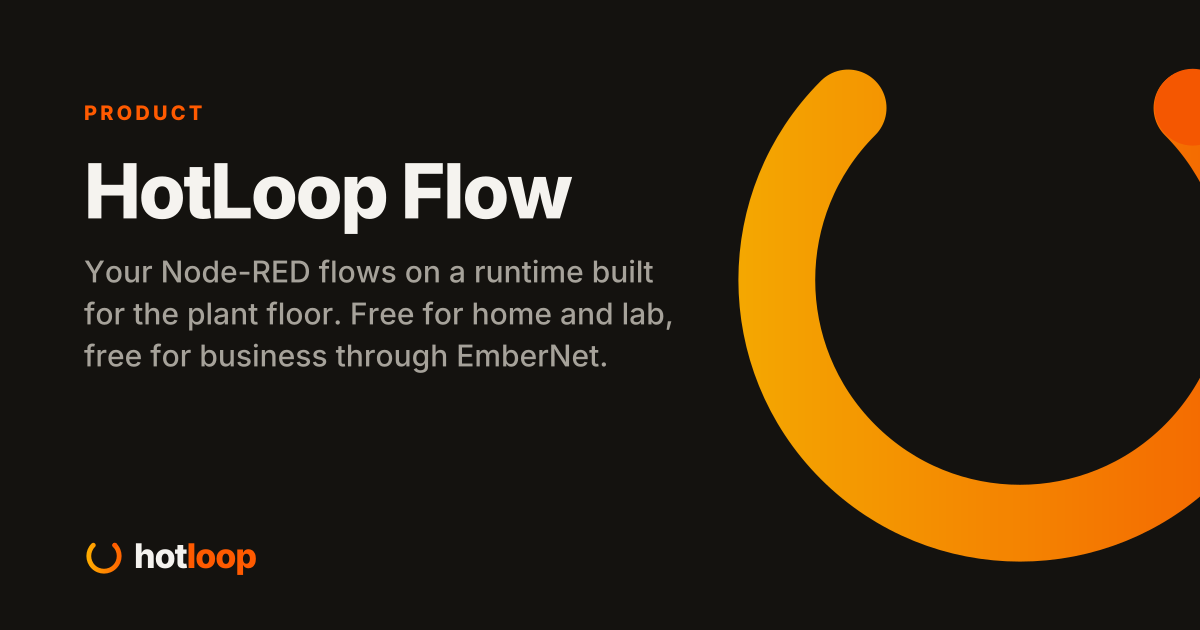
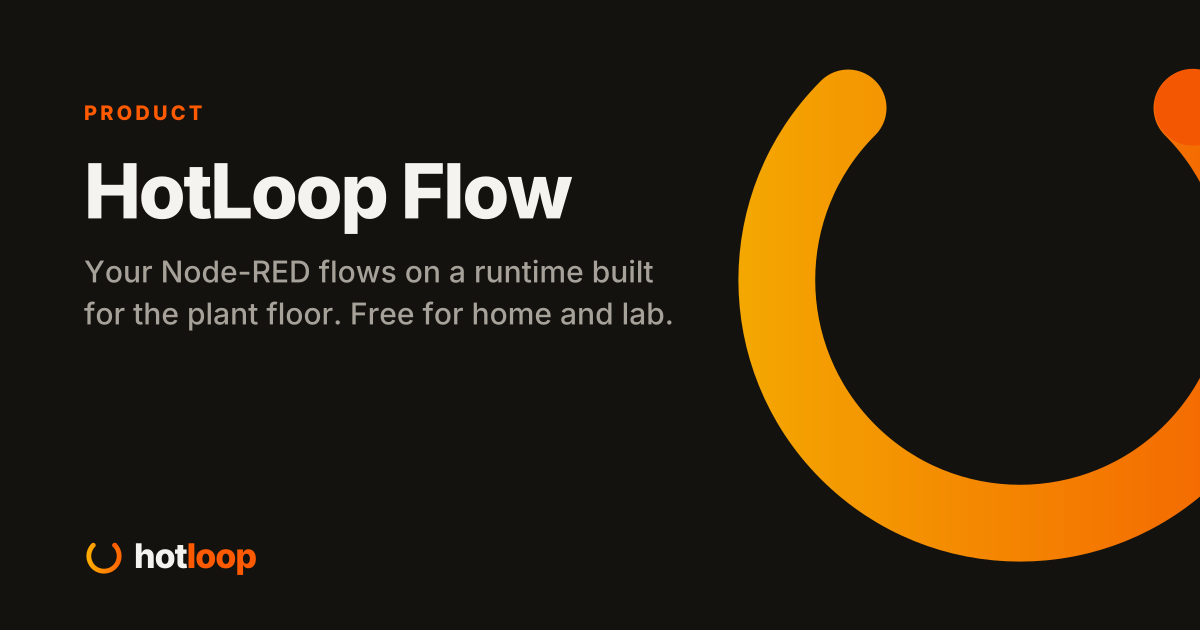
fix(copy): hotloop.io speaks as HotLoop LLC
I moved hotloop.io off Fireball Industries. HotLoop LLC is the maker, licensor and copyright holder, the License page is a short customer page that links the full agreement, and contact is support@hotloop.io. The vendored license and terms match the HotLoop-io main files.

Changed region(s): [[0.0617, 0.5429, 0.4933, 0.6032]]

diff --git a/src/legal/TERMS.md b/src/legal/TERMS.md
@@ -1,6 +1,6 @@
 # HotLoop Terms of Service
 
-HotLoop IoT, Edge, Gateway, Edge Relay, Flow, Cascade, HotLoop for CODESYS, and Transmitter. Fireball Industries LLC.
+HotLoop IoT, Edge, Gateway, Edge Relay, Flow, Cascade, HotLoop for CODESYS, and Transmitter. HotLoop LLC.
 
 Last updated: November 19, 2026. Effective: October 19, 2026.
 
@@ -8,7 +8,7 @@ These terms apply to everyone who downloads, installs or uses HotLoop. They expl
 
 ## 1. Who we are
 
-1.1 HotLoop is made by Fireball Industries LLC, an Ohio limited liability company at 1410 Highland Rd #1, Macedonia, OH 44056 ("HotLoop", "we", "us"). Fireball Industries LLC is the only party you contract with.
+1.1 HotLoop is made by HotLoop LLC ("HotLoop", "we", "us"). HotLoop LLC is the only party you contract with.
 
 1.2 "You" means the person or organization that accepts these terms.
 
@@ -90,13 +90,13 @@ These terms apply to everyone who downloads, installs or uses HotLoop. They expl
 
 ## 9. EmberNet
 
-9.1 EmberNet is the channel business use goes through. It is a separate service with its own terms. Your agreement with EmberNet is between you and EmberNet, and we are not a party to it.
+9.1 EmberNet is a partner platform and the channel business use goes through. It is a separate service with its own terms. Your agreement with EmberNet is between you and EmberNet, and we are not a party to it.
 
 9.2 We do not warrant EmberNet and are not responsible for it.
 
 ## 10. Support
 
-10.1 Community support is on GitHub Discussions, at our discretion and without any promise of response time. For anything else, write to support@hotloop.io.
+10.1 Community support is on GitHub Discussions, at our discretion and without any promise of response time. Support is provided by EmberNet, HotLoop's Gold Licensee: write to helpdesk@fireballz.ai.
 
 10.2 Paid support, service levels and rollouts, if you want them, come from a systems integrator you hire, not from these terms.
 
@@ -116,7 +116,7 @@ These terms apply to everyone who downloads, installs or uses HotLoop. They expl
 
 13.1 If you believe content on one of the Sites infringes your copyright, send a notice to our designated agent. Include: your contact details; the work you say is infringed; where the material is; a statement that you believe in good faith the use is not authorized; a statement that your notice is accurate and, under penalty of perjury, that you are the owner or authorized to act for the owner; and your signature.
 
-13.2 Designated agent: Copyright Agent, Fireball Industries LLC, 1410 Highland Rd #1, Macedonia, OH 44056, support@hotloop.io.
+13.2 Designated agent: Copyright Agent, HotLoop LLC, helpdesk@fireballz.ai.
 
 13.3 We may remove or disable access to the material and tell the user who posted it. That user may send a counter-notice to the same agent. We may close the accounts of repeat infringers.
 
@@ -158,13 +158,13 @@ These terms apply to everyone who downloads, installs or uses HotLoop. They expl
 
 ## 19. Which document wins
 
-19.1 For what you may do with the Software, the license wins over these terms. For everything else, these terms win over our other published pages. A signed agreement with Fireball Industries LLC wins over both where it says so.
+19.1 For what you may do with the Software, the license wins over these terms. For everything else, these terms win over our other published pages. A signed agreement with HotLoop LLC wins over both where it says so.
 
 ## 20. General
 
 20.1 You may not transfer these terms without our written consent. We may transfer them as part of a merger, reorganization or sale of our business.
 
-20.2 We give notice on the Sites. Send notices to us at Fireball Industries LLC, 1410 Highland Rd #1, Macedonia, OH 44056, support@hotloop.io.
+20.2 We give notice on the Sites. Send notices to us at helpdesk@fireballz.ai.
 
 20.3 Neither of us is liable for delay caused by events beyond reasonable control.
 

diff --git a/src/content/releases/flow/2.2.0.md b/src/content/releases/flow/2.2.0.md
@@ -5,7 +5,7 @@ date: 2026-10-20
 published: true
 summary: "Flow talks to the PLCs, remembers what it knew when it restarts, and shows you where a message went. It is also the first release under HotLoop's Business Source License."
 highlights:
-  - "The license changed. 2.2.0 and every release after it is under HotLoop's Business Source License 1.1. Home and lab use is free, and so are schools, nonprofits and government bodies. Business use is free through EmberNet, which is the only business path. 2.1.0 and everything before it stay under the license they shipped with."
+  - "The license changed. 2.2.0 and every release after it is under HotLoop's Business Source License 1.1. Home and lab use is free, and so are schools, nonprofits and government bodies. 2.1.0 and everything before it stay under the license they shipped with."
   - "Tracing and replay. Every message gets a bounded trace, and clicking a debug message lights the path it took with timing and the payload at each hop. A trace becomes a flow test, or replays into a draft so you can try a fix on the message that broke it. Hops can go to an OpenTelemetry collector as spans, proven against the real collector image."
   - "State that survives a restart. Flow, global and node context live in a SQLite file on the data volume. Mark a wire durable and it spills to disk, in order, only when the node behind it stops taking messages. A real InfluxDB killed for ten minutes, with the runtime killed mid-outage and mid-drain, came back with none missing and none doubled."
   - "Plant nodes. Modbus TCP read and write, OPC UA read, write and subscribe, S7 read and write, EtherNet/IP read and write, and Sparkplug B as an edge node and as a host. S7 and EtherNet/IP have only met simulators."

diff --git a/src/content/releases/core/4.18.10.md b/src/content/releases/core/4.18.10.md
@@ -13,7 +13,7 @@ highlights:
   - "Every box follows :stable and updates itself, and a release that can't start is rolled back. Migrations only add, and an app refuses to start on a schema two releases ahead of it, so that rollback is always safe."
   - "UniFi on a wall board and a phone: a zooming network map, traces for WAN latency and port traffic, one button that makes the usual alarms, and UniFi events in the logbook under the switch they are about. An agent can ask over MCP for the topology and the console's latest events."
   - "The Edge Relay takes a pushed config live with no restart and no lost Sparkplug session, and discovers devices on a broker like the Gateway does."
-  - "The license changed: all four products are under the HotLoop Business Source License 1.1. Home and lab use is free, so is use by schools, nonprofits and government, and business use goes through EmberNet."
+  - "The license changed: all four products are under the HotLoop Business Source License 1.1. Home and lab use is free, and so is use by schools, nonprofits and government."
   - "Fixed on the way: a discovered device's value could be overwritten by its own placeholder reading that had no value yet, the embedded MQTT broker mishandled packet ids in both directions, and a dashboard that was still loading could put a person back on the one they had just left."
 breaking:
   - "Upgrade from 4.17.0 with --reset-then-reuse-values or your values file. Plain --reuse-values renders, but it replays 4.17.0's values and drops every new default."

diff --git a/src/legal/LICENSE.md b/src/legal/LICENSE.md
@@ -2,9 +2,9 @@
 
 Every HotLoop product is under the HotLoop Source License Agreement 1.0 below: HotLoop IoT, HotLoop Edge, HotLoop Gateway, HotLoop Edge Relay, HotLoop Flow, HotLoop Cascade, HotLoop for CODESYS, HotLoop Transmitter, Spark SDK and Spark Manager. A version that was released under an earlier license stays under that license.
 
-**Licensor:** Fireball Industries LLC
+**Licensor:** HotLoop LLC
 
-**Licensed Work:** HotLoop IoT, HotLoop Edge, HotLoop Gateway, HotLoop Edge Relay, HotLoop Flow, HotLoop Cascade, HotLoop for CODESYS, HotLoop Transmitter, Spark SDK and Spark Manager, in the version of each that you received. The Licensed Work is (c) 2026 Fireball Industries LLC.
+**Licensed Work:** HotLoop IoT, HotLoop Edge, HotLoop Gateway, HotLoop Edge Relay, HotLoop Flow, HotLoop Cascade, HotLoop for CODESYS, HotLoop Transmitter, Spark SDK and Spark Manager, in the version of each that you received. The Licensed Work is (c) 2026 HotLoop LLC.
 
 ## 1. What you may always do
 
@@ -44,7 +44,7 @@ Spark SDK and HotLoop Transmitter exist to be built into things you make. You ma
 
 ## 6. Any other use
 
-Any use not allowed by sections 1, 2 and 5 needs a separate commercial license from the Licensor. To ask for one, email sales@fireballz.ai.
+Any use not allowed by sections 1, 2 and 5 needs a separate commercial license from the Licensor. To ask for one, email helpdesk@fireballz.ai.
 
 ## 7. Copies and derivative works
 

diff --git a/src/content/releases/core/4.16.0.md b/src/content/releases/core/4.16.0.md
@@ -14,7 +14,7 @@ highlights:
   - "Images: ghcr.io/hotloop-io/hotloop:4.16.0 and ghcr.io/hotloop-io/hotloop-edge-relay:4.16.0, for amd64 and arm64, pulled with no login. Charts hotloop and hotloop-edge-relay 4.16.0 from https://hotloop.io/hotloop, and a Quadlet unit for the Edge Relay."
 breaking:
   - "Coming from 4.3.1 is not a plain helm upgrade, because the product was renamed to HotLoop. Take a database backup first, and follow the upgrade docs, which walk it step by step."
-  - "License: HotLoop's own license, replacing the one 4.3.1 and earlier were published under. Today that is the Business Source License 1.1, described at hotloop.io/license: free for home and lab, and free for business through EmberNet."
+  - "License: HotLoop's own license, replacing the one 4.3.1 and earlier were published under. Today that is the Business Source License 1.1, described at hotloop.io/license: free for home and lab."
   - "There is a login, writes default to off, and a timezone that won't load stops startup instead of running on UTC."
   - "API: empty lists are [], never null. History buckets with no good reading are null. An error the API can't place is a 500 with a log ref, and a device that errors on a write or a browse is a 502. alarm.turn_on is a 400, unshelving an alarm that isn't shelved is a 409, and tag JSON always carries minValue, maxValue and hasRange."
 ---
